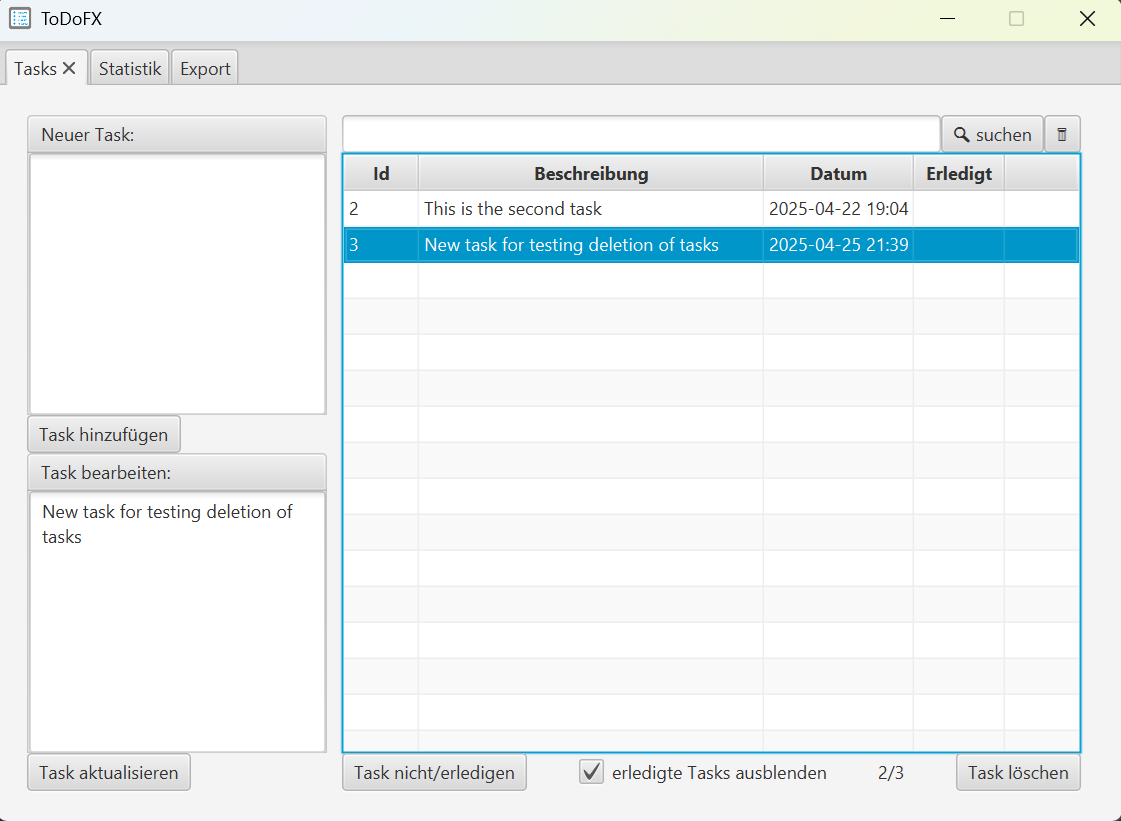
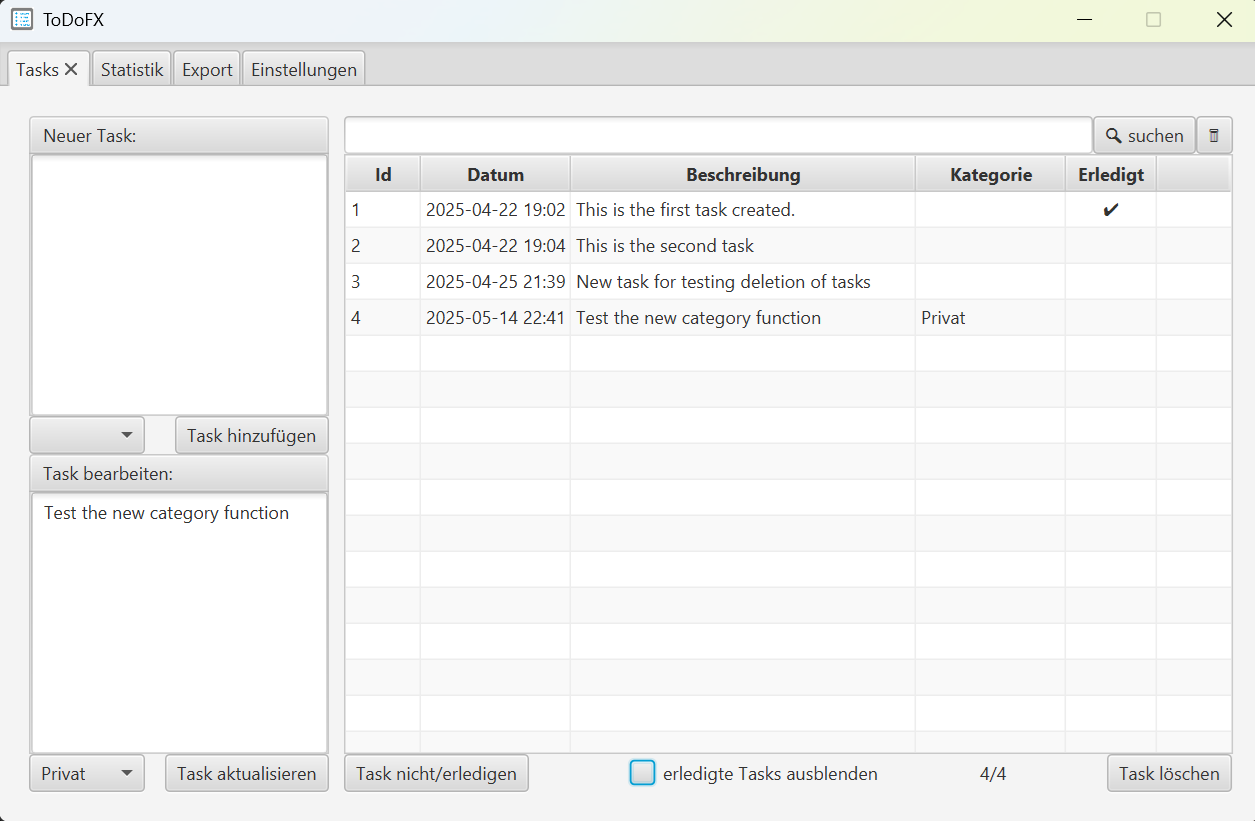
#25 integrated categories in the task tab

diff --git a/src/main/kotlin/com/github/ursteiner/todofx/controller/TasksTabController.kt b/src/main/kotlin/com/github/ursteiner/todofx/controller/TasksTabController.kt
@@ -1,24 +1,17 @@
 package com.github.ursteiner.todofx.controller
 
 import com.github.ursteiner.todofx.constants.TranslationKeys
+import com.github.ursteiner.todofx.model.Category
 import com.github.ursteiner.todofx.model.Task
 import com.github.ursteiner.todofx.view.FxUtils
 import javafx.collections.FXCollections
 import javafx.fxml.FXML
-import javafx.scene.control.Alert
-import javafx.scene.control.Button
-import javafx.scene.control.ButtonType
-import javafx.scene.control.CheckBox
-import javafx.scene.control.Label
-import javafx.scene.control.TableColumn
-import javafx.scene.control.TableView
-import javafx.scene.control.TextArea
-import javafx.scene.control.TextField
-import javafx.scene.control.TitledPane
+import javafx.scene.control.*
 import java.net.URL
 import java.time.LocalDateTime
 import java.time.format.DateTimeFormatter
-import java.util.ResourceBundle
+import java.util.*
+
 
 class TasksTabController : CommonController() {
     @FXML
@@ -34,7 +27,13 @@ class TasksTabController : CommonController() {
     private lateinit var hideDoneTasksCheckBox: CheckBox
 
     @FXML
+    private lateinit var updateCategoryComboBox: ComboBox<Category>
+
+    @FXML
     private lateinit var updateTaskButton: Button
+
+    @FXML
+    private lateinit var newCategoryComboBox: ComboBox<Category>
 
     @FXML
     private lateinit var addTaskButton: Button
@@ -61,6 +60,9 @@ class TasksTabController : CommonController() {
     private lateinit var dateColumn: TableColumn<String, String>
 
     @FXML
+    private lateinit var categoryColumn: TableColumn<String, String>
+
+    @FXML
     private lateinit var doneColumn: TableColumn<String, String>
 
     @FXML
@@ -79,6 +81,15 @@ class TasksTabController : CommonController() {
     override fun initialize(p0: URL?, p1: ResourceBundle?){
         initializeFieldNames()
         getTasksBasedOnFilters()
+
+        val categories = getDatabase().getCategories()
+
+        newCategoryComboBox.items.add(Category("", -1))
+        newCategoryComboBox.items.addAll(categories)
+        newCategoryComboBox.selectionModel.selectFirst()
+
+        updateCategoryComboBox.items.add(Category("", -1))
+        updateCategoryComboBox.items.addAll(categories)
     }
 
     fun initializeFieldNames(){
@@ -96,6 +107,7 @@ class TasksTabController : CommonController() {
         idColumn.text = getTranslation(TranslationKeys.ID)
         descriptionColumn.text = getTranslation(TranslationKeys.DESCRIPTION)
         dateColumn.text = getTranslation(TranslationKeys.DATE)
+        categoryColumn.text = getTranslation(TranslationKeys.CATEGORY)
         doneColumn.text = getTranslation(TranslationKeys.DONE)
     }
 
@@ -108,11 +120,14 @@ class TasksTabController : CommonController() {
             return
         }
 
-        val newTask = Task(taskNameInput.text, LocalDateTime.now().format(dateTimeFormat), -1)
+        val selectedCategory = newCategoryComboBox.selectionModel.selectedItem
+
+        val newTask = Task(taskNameInput.text, LocalDateTime.now().format(dateTimeFormat), selectedCategory.name, -1)
         tasks.add(newTask)
-        getDatabase().addTask(newTask)
+        getDatabase().addTask(newTask, selectedCategory.id)
         getTasksBasedOnFilters()
         taskNameInput.text = ""
+        newCategoryComboBox.selectionModel.selectFirst()
     }
 
     @Suppress("unused")
@@ -185,7 +200,7 @@ class TasksTabController : CommonController() {
         }
 
         selectedTask.setIsDoneProperty(!selectedTask.getIsDoneProperty())
-        getDatabase().updateTask(selectedTask)
+        getDatabase().updateTask(selectedTask, -1)
 
         if(hideDoneTasksCheckBox.isSelected){
             setVisibilityUpdateTask(false)
@@ -198,14 +213,16 @@ class TasksTabController : CommonController() {
     @FXML
     private fun onUpdateTaskButtonClick(){
         val selectedTask = tableView.selectionModel.selectedItem
+        val selectedCategory = updateCategoryComboBox.selectionModel.selectedItem
         if(selectedTask == null) {
             showDialogMessageFirstSelectATask()
             return
         }
-        if(selectedTask.getNameProperty() != taskUpdateArea.text){
-            selectedTask.setNameProperty(taskUpdateArea.text)
-            getDatabase().updateTask(selectedTask)
-        }
+
+        selectedTask.setNameProperty(taskUpdateArea.text)
+        selectedTask.setCategoryProperty(selectedCategory.name)
+
+        getDatabase().updateTask(selectedTask, selectedCategory.id)
 
         setVisibilityUpdateTask(false)
         tableView.refresh()
@@ -215,6 +232,7 @@ class TasksTabController : CommonController() {
         taskUpdateArea.isVisible = isVisible
         updateTaskButton.isVisible = isVisible
         editTaskPane.isVisible = isVisible
+        updateCategoryComboBox.isVisible = isVisible
     }
 
     @Suppress("unused")
@@ -223,6 +241,16 @@ class TasksTabController : CommonController() {
         val selectedTask = tableView.selectionModel.selectedItem
         if(selectedTask != null) {
             taskUpdateArea.text = selectedTask.getNameProperty()
+
+            when(selectedTask.getCategoryProperty()){
+                "" -> updateCategoryComboBox.selectionModel.selectFirst()
+                else -> updateCategoryComboBox.items.forEach {
+                    if(it.name == selectedTask.getCategoryProperty()){
+                        updateCategoryComboBox.selectionModel.select(it)
+                    }
+                }
+            }
+
             setVisibilityUpdateTask(true)
         }
     }

diff --git a/src/main/kotlin/com/github/ursteiner/todofx/service/DatabaseServiceImpl.kt b/src/main/kotlin/com/github/ursteiner/todofx/service/DatabaseServiceImpl.kt
@@ -21,8 +21,9 @@ class DatabaseServiceImpl : DatabaseService {
         transaction {
             addLogger(StdOutSqlLogger)
             SchemaUtils.create(Tasks)
-            SchemaUtils.create(Categories)
-            //SchemaUtils.createMissingTablesAndColumns(Tasks)
+            //SchemaUtils.create(Categories)
+            SchemaUtils.createMissingTablesAndColumns(Tasks)
+            SchemaUtils.createMissingTablesAndColumns(Categories)
         }
     }
 
@@ -41,8 +42,9 @@ class DatabaseServiceImpl : DatabaseService {
         val id: Column<Int> = integer("id").autoIncrement()
         val name: Column<String> = varchar("name", length = 500)
         val date: Column<String> = varchar("date", length = 30)
-        var isDone : Column<Boolean> = bool("isDone")
-        var resolvedDate: Column<String?> = varchar("resolvedDate", length = 30).nullable()
+        val isDone: Column<Boolean> = bool("isDone")
+        val resolvedDate: Column<String?> = varchar("resolvedDate", length = 30).nullable()
+        val categoryId: Column<Int?> = integer("categoryId").references(Categories.id).nullable()
 
         override val primaryKey = PrimaryKey(id, name = "PK_Task_ID")
     }
@@ -54,13 +56,16 @@ class DatabaseServiceImpl : DatabaseService {
         override val primaryKey = PrimaryKey(id, name = "PK_Category_ID")
     }
 
-    override fun addTask(newTask: Task) = transaction {
+    override fun addTask(newTask: Task, categoryNumber: Int?) = transaction {
         logger.info("Task added: ${newTask.getNameProperty()}")
         addLogger(StdOutSqlLogger)
         val taskId = Tasks.insert {
             it[name] = newTask.getNameProperty()
             it[date] = newTask.getDateProperty()
             it[isDone] = newTask.getIsDoneProperty()
+            if(categoryNumber != null){
+                it[categoryId] = categoryNumber
+            }
         } get Tasks.id
 
         newTask.setIdProperty(taskId)
@@ -81,11 +86,11 @@ class DatabaseServiceImpl : DatabaseService {
         transaction {
             addLogger(StdOutSqlLogger)
             val databaseTasks = when(resolved){
-                null -> Tasks.selectAll()
-                else -> Tasks.selectAll().where { Tasks.isDone eq resolved }
+                null -> (Tasks leftJoin Categories).selectAll()
+                else -> (Tasks leftJoin Categories).selectAll().where { Tasks.isDone eq resolved }
             }
             databaseTasks.forEach {
-                tasks.add(Task(it[Tasks.name], it[Tasks.date], it[Tasks.id], it[Tasks.isDone]))
+                tasks.add(Task(it[Tasks.name], it[Tasks.date], it[Categories.name],it[Tasks.id], it[Tasks.isDone]))
             }
         }
         return tasks
@@ -97,10 +102,10 @@ class DatabaseServiceImpl : DatabaseService {
 
         transaction {
             addLogger(StdOutSqlLogger)
-            val databaseTasks = Tasks.selectAll().where { LowerCase(Tasks.name) like search }
+            val databaseTasks = (Tasks leftJoin Categories).selectAll().where { LowerCase(Tasks.name) like search }
 
             databaseTasks.forEach {
-                tasks.add(Task(it[Tasks.name], it[Tasks.date], it[Tasks.id], it[Tasks.isDone]))
+                tasks.add(Task(it[Tasks.name], it[Tasks.date], it[Categories.name], it[Tasks.id], it[Tasks.isDone]))
             }
         }
         return tasks
@@ -117,7 +122,7 @@ class DatabaseServiceImpl : DatabaseService {
         return deletedTasks
     }
 
-    override fun updateTask(task: Task): Int {
+    override fun updateTask(task: Task, categoryNumber: Int): Int {
         logger.info("Update Task: ${task.getIdProperty()}")
         var updatedTasks = 0
 
@@ -127,6 +132,9 @@ class DatabaseServiceImpl : DatabaseService {
                 it[isDone] = task.getIsDoneProperty()
                 it[name] = task.getNameProperty()
                 it[resolvedDate] = task.getResolvedDate()
+                if(categoryNumber >=0 ){
+                    it[categoryId] = categoryNumber
+                }
             }
         }
         return updatedTasks

diff --git a/src/main/kotlin/com/github/ursteiner/todofx/model/Task.kt b/src/main/kotlin/com/github/ursteiner/todofx/model/Task.kt
@@ -11,13 +11,16 @@ class Task {
     private val isDone: SimpleBooleanProperty = SimpleBooleanProperty(false)
     private val isDoneIcon: SimpleStringProperty = SimpleStringProperty("")
     private val resolvedDate: SimpleStringProperty = SimpleStringProperty("")
+    private val category: SimpleStringProperty = SimpleStringProperty("")
 
-    constructor(name: String, date: String, id: Int = 0, isDone: Boolean = false, resolvedDate: String = ""){
+    constructor(name: String, date: String, categoryName: String?, id: Int = 0, isDone: Boolean = false, resolvedDate: String = ""){
         setNameProperty(name)
         setDateProperty(date)
         setIdProperty(id)
         setIsDoneProperty(isDone)
         setResolvedDate(resolvedDate)
+        setCategoryProperty(categoryName ?: "")
+
     }
 
     fun setNameProperty(taskName: String){
@@ -67,5 +70,13 @@ class Task {
 
     fun getResolvedDate(): String{
         return this.resolvedDate.get()
+    }
+
+    fun setCategoryProperty(categoryName: String){
+        this.category.set(categoryName)
+    }
+
+    fun getCategoryProperty(): String{
+        return this.category.get()
     }
 }

diff --git a/src/main/kotlin/com/github/ursteiner/todofx/service/DatabaseService.kt b/src/main/kotlin/com/github/ursteiner/todofx/service/DatabaseService.kt
@@ -4,13 +4,13 @@ import com.github.ursteiner.todofx.model.Category
 import com.github.ursteiner.todofx.model.Task
 
 interface DatabaseService {
-    fun addTask(newTask: Task)
+    fun addTask(newTask: Task, categoryNumber: Int?)
     fun getResolvedTasks(): MutableList<Task>
     fun getOpenTasks(): MutableList<Task>
     fun getTasks(resolved: Boolean? = null): MutableList<Task>
     fun getSearchedTasks(search: String): MutableList<Task>
     fun deleteTask(taskId: Int): Int
-    fun updateTask(task: Task): Int
+    fun updateTask(task: Task, categoryNumber: Int): Int
     fun getAmountOfResolvedTasks(): Long
     fun getAmountOfOpenTasks(): Long
     fun getTasksPerMonth(lastXMonths: Int): MutableMap<String, Int>

diff --git a/src/main/kotlin/com/github/ursteiner/todofx/ToDoFxApplication.kt b/src/main/kotlin/com/github/ursteiner/todofx/ToDoFxApplication.kt
@@ -9,7 +9,7 @@ import javafx.stage.Stage
 class ToDoFxApplication : Application() {
     override fun start(stage: Stage) {
         val fxmlLoader = FXMLLoader(ToDoFxApplication::class.java.getResource("toDoFx-view.fxml"))
-        val startScene = Scene(fxmlLoader.load(), 750.0, 520.0)
+        val startScene = Scene(fxmlLoader.load(), 840.0, 520.0)
         with(stage){
             title = "ToDoFX"
             icons.add(Image(ToDoFxApplication::class.java.getResourceAsStream("appIcon.png")))

diff --git a/src/main/kotlin/com/github/ursteiner/todofx/model/Category.kt b/src/main/kotlin/com/github/ursteiner/todofx/model/Category.kt
@@ -1,3 +1,8 @@
 package com.github.ursteiner.todofx.model
 
-data class Category(val name: String, var id: Int)
+data class Category(val name: String, var id: Int){
+
+    override fun toString(): String {
+        return name
+    }
+}

diff --git a/src/main/kotlin/com/github/ursteiner/todofx/constants/TranslationKeys.kt b/src/main/kotlin/com/github/ursteiner/todofx/constants/TranslationKeys.kt
@@ -30,6 +30,7 @@ enum class TranslationKeys() {
     ADD_CATEGORY,
     DELETE_CATEGORY,
     SETTINGS,
+    CATEGORY,
     CATEGORIES,
     PLEASE_FIRST_SELECT_A_CATEGORY
 }
